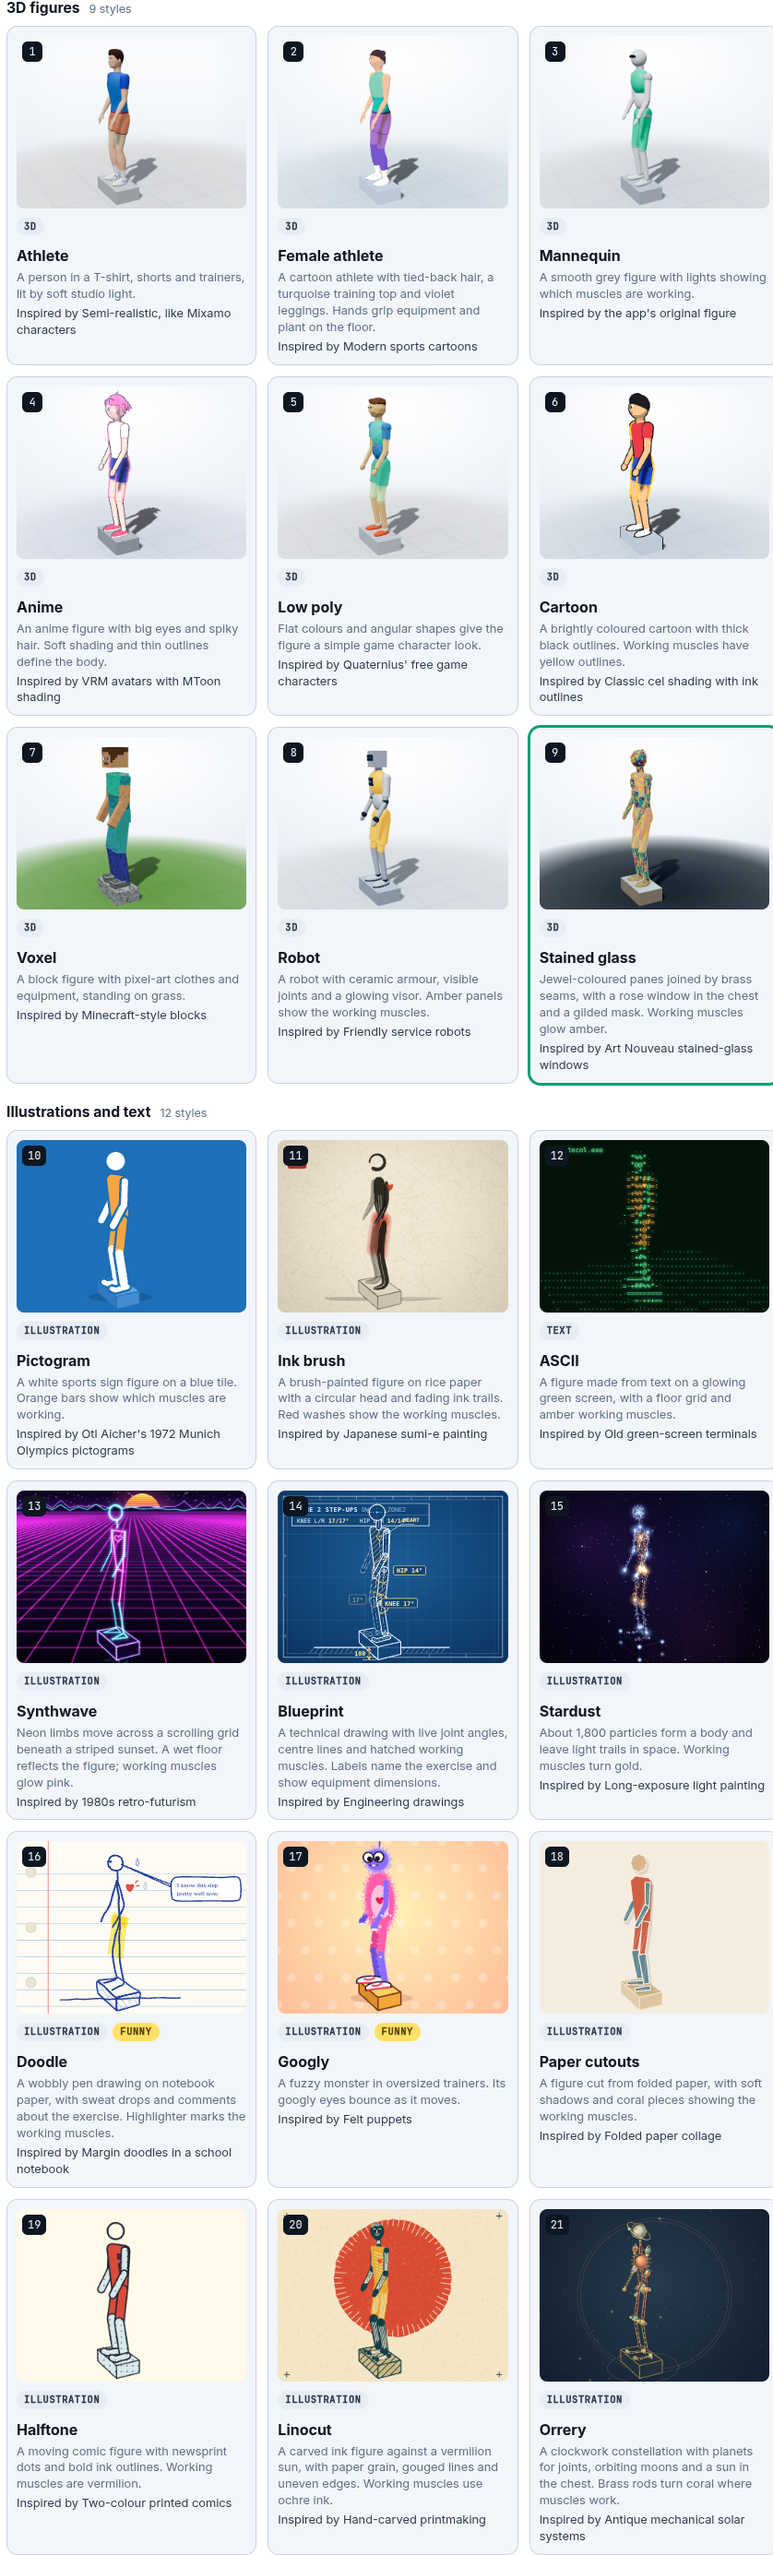
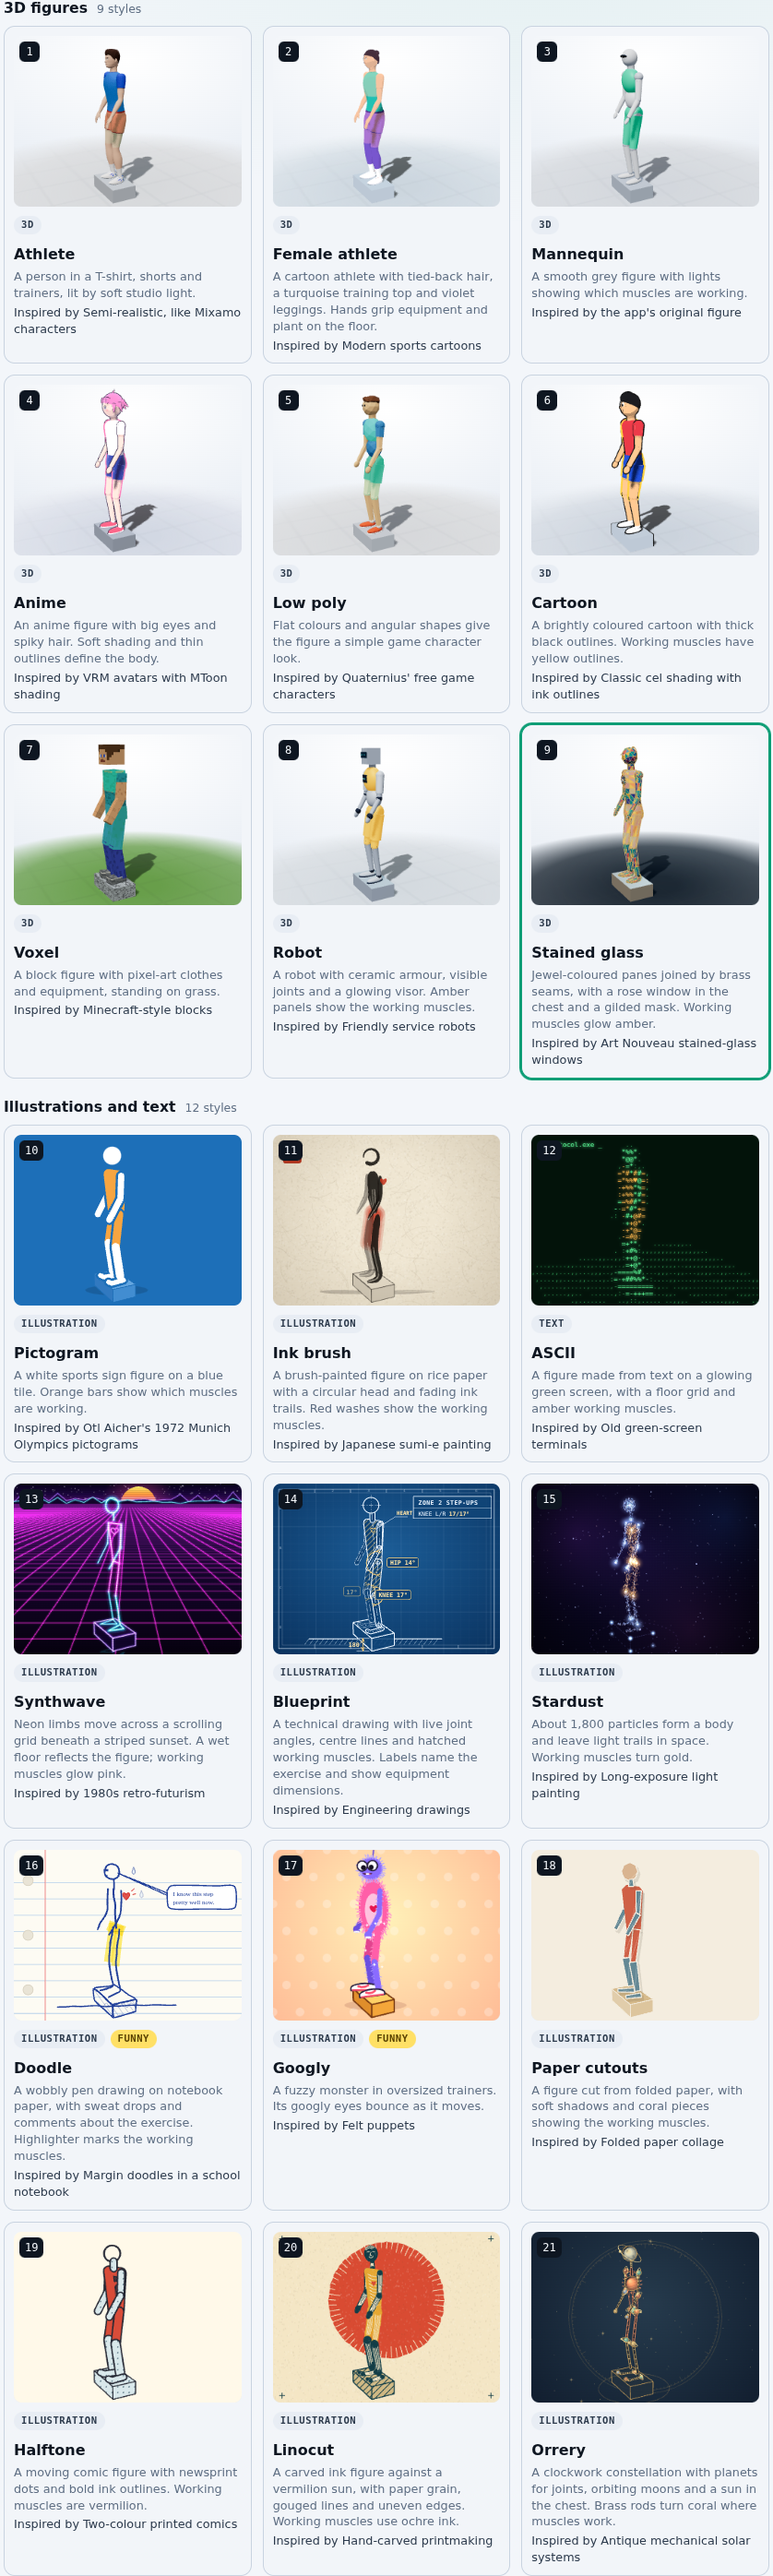
Fix animation overlaps across styles

diff --git a/public/js/anim/styles/blueprint.js b/public/js/anim/styles/blueprint.js
@@ -14,6 +14,22 @@ const INK = "#eaf4ff";
 const n = (v) => v.toFixed(1);
 const esc = (t) => String(t).replace(/&/g, "&amp;").replace(/</g, "&lt;");
 const FONT = `font-family="JetBrains Mono, ui-monospace, Menlo, Consolas, monospace"`;
+const bounds = (pts, pad = 0) => ({
+  left: Math.min(...pts.map((p) => p.x)) - pad,
+  right: Math.max(...pts.map((p) => p.x)) + pad,
+  top: Math.min(...pts.map((p) => p.y)) - pad,
+  bottom: Math.max(...pts.map((p) => p.y)) + pad,
+});
+
+function titlePlacement(w, h, blocked) {
+  const pad = 12, height = 31;
+  const widths = [...new Set([190, 150, 110, 70, 44].map((n) => Math.min(n, w - pad * 2)))].filter((n) => n >= 44);
+  for (const width of widths) for (const y of [18, h - height - 18]) for (const x of [pad, w - pad - width]) {
+    const box = { left: x, right: x + width, top: y, bottom: y + height };
+    if (!blocked.some((b) => box.left < b.right && box.right > b.left && box.top < b.bottom && box.bottom > b.top)) return { x, y, width };
+  }
+  return null;
+}
 
 // The angle at b between the lines to a and c, in degrees (3D).
 function angle(a, b, c) {
@@ -48,6 +64,29 @@ export function createFigure() {
     if (!J) return void (svg.innerHTML = o);
     const u = view.scaleAt(J.pelvis);
     const P = (k) => view.project(J[k]);
+    const head = P("head"), headRadius = u * 0.105;
+    const blocked = [bounds([head], headRadius + 2)];
+    const blockLine = (keys, radius) => blocked.push(bounds(keys.map(P), radius + 2));
+    blocked.push(bounds(["shoulderL", "shoulderR", "hipL", "hipR"].map(P), u * 0.06 + 2));
+    for (const s of ["L", "R"]) {
+      blockLine(["shoulder" + s, "elbow" + s], u * 0.09);
+      blockLine(["elbow" + s, "wrist" + s, "hand" + s], u * 0.1);
+      blockLine(["hip" + s, "knee" + s], u * 0.08);
+      blockLine(["knee" + s, "ankle" + s], u * 0.08);
+      blockLine(["heel" + s, "ball" + s, "toe" + s], u * 0.08);
+    }
+    blockLine(["neckBase", "headJoint"], u * 0.08);
+    const e = view.camera.world, rl = Math.hypot(e[0], e[2]) || 1;
+    blocked.push(bounds([-0.95, 0.95].map((k) => view.project({ x: J.pelvis.x + (e[0] / rl) * k, y: 0, z: J.pelvis.z + (e[2] / rl) * k })), 10));
+    for (const spec of view.props) for (const face of propFaces(spec, view)) {
+      blocked.push(bounds(face.pts, spec.type === "step" || spec.type === "box" ? 24 : 3));
+    }
+    for (const [a, b] of view.attachments.bands) blocked.push(bounds([view.project(a), view.project(b)], 3));
+    if (view.attachments.string) blocked.push(bounds(view.attachments.string.map(view.project), 3));
+    for (const db of view.attachments.dumbbells) {
+      const { a, b, r } = dumbbellHeads(db), radius = u * r + 3;
+      blocked.push(bounds([view.project(a)], radius), bounds([view.project(b)], radius));
+    }
     const near = P("hipL").z + P("shoulderL").z < P("hipR").z + P("shoulderR").z ? "L" : "R";
     const far = near === "L" ? "R" : "L";
 
@@ -61,7 +100,9 @@ export function createFigure() {
       ["ELBOW L/R", `${Math.round(elbow("L"))}/${Math.round(elbow("R"))}°`],
       ["PELVIS", `${Math.round(J.pelvis.y * 1000)} mm`],
     ];
-    o += titleStrip(readouts, Math.max(150, w - 128), title, exId);
+    const strip = titlePlacement(w, h, blocked);
+    // shortcut: hide the label if no corner is clear; move it outside the stage if every frame must show it.
+    if (strip) o += titleStrip(readouts, strip.width, title, exId, strip.x, strip.y);
     o += ground(view, u);
     for (const spec of view.props) o += prop(spec, view, u);
 
@@ -97,7 +138,7 @@ export function createFigure() {
     const spine = ["neckBase", "thoracic", "lumbar", "pelvis"].map(P);
     o += `<path d="M${spine.map((p) => `${n(p.x)} ${n(p.y)}`).join("L")}" fill="none" stroke="${INK}" stroke-width="0.7" stroke-dasharray="10 3 2 3"/>`;
     o += part(["neckBase", "headJoint"], 0.08, "neck", false);
-    const hd = P("head"), hr = u * 0.105;
+    const hd = head, hr = headRadius;
     o += `<circle cx="${n(hd.x)}" cy="${n(hd.y)}" r="${n(hr)}" fill="${PAPER}" stroke="${INK}" stroke-width="1.3"/>`;
     o += `<path d="M${n(hd.x - hr * 1.3)} ${n(hd.y)}H${n(hd.x + hr * 1.3)}M${n(hd.x)} ${n(hd.y - hr * 1.3)}V${n(hd.y + hr * 1.3)}" stroke="${INK}" stroke-width="0.6" stroke-dasharray="6 2 1.5 2"/>`;
     o += side(near, false);
@@ -151,26 +192,28 @@ export function createFigure() {
     return s;
   }
 
-  function titleStrip(readouts, maxW, name, dwg) {
-    const x = 20, y = 18, cw = 4.9; // cw: width of one 8 px mono character
+  function titleStrip(readouts, boxW, name, dwg, x, y) {
+    const cw = 4.9; // cw: width of one 8 px mono character
     let line = "", width = 0;
     for (const [k, v] of readouts) {
       const item = `${k} <tspan font-weight="700" fill="#ffe3a6">${v}</tspan>`;
       const len = (k.length + v.length + 4) * cw;
-      if (width + len > maxW - 14) break;
+      if (width + len > boxW - 14) break;
       line += (line ? '<tspan fill-opacity="0.4"> · </tspan>' : "") + item;
       width += len;
     }
     // The name fits the strip: the drawing number goes first, then the name is cut short.
     let head = name.toUpperCase(), num = `DWG HP-${dwg.toUpperCase()}`;
-    const fits = (t) => t.length * 5.6 + 14 <= maxW;
+    const fits = (t) => t.length * 5.6 + 14 <= boxW;
     if (!fits(head + "  " + num)) num = "";
-    if (!fits(head)) head = head.slice(0, Math.max(4, Math.floor((maxW - 14) / 5.6) - 1)) + "…";
-    const w = Math.min(maxW, Math.max(width + 14, (head.length + (num ? num.length + 2 : 0)) * 5.6 + 14, 190));
-    return `<g ${FONT} fill="${INK}"><rect x="${x}" y="${y}" width="${n(w)}" height="31" fill="${PAPER}" fill-opacity="0.85" stroke="${INK}" stroke-width="0.9"/>
-      <text x="${x + 7}" y="${y + 12}" font-size="8.5" font-weight="700" letter-spacing="0.5">${esc(head)} <tspan font-weight="400" fill-opacity="0.6" letter-spacing="0">${esc(num)}</tspan></text>
-      <path d="M${x} ${y + 16.5}h${n(w)}" stroke="${INK}" stroke-width="0.5" stroke-opacity="0.7"/>
-      <text x="${x + 7}" y="${y + 27}" font-size="8">${line}</text></g>`;
+    if (!fits(head)) {
+      const chars = Math.floor((boxW - 14) / 5.6);
+      head = chars > 1 ? head.slice(0, chars - 1) + "…" : head.slice(0, chars);
+    }
+    return `<g ${FONT} fill="${INK}"><rect x="${n(x)}" y="${n(y)}" width="${n(boxW)}" height="31" fill="${PAPER}" fill-opacity="0.85" stroke="${INK}" stroke-width="0.9"/>
+      <text x="${n(x + 7)}" y="${n(y + 12)}" font-size="8.5" font-weight="700" letter-spacing="0.5">${esc(head)}${num ? ` <tspan font-weight="400" fill-opacity="0.6" letter-spacing="0">${esc(num)}</tspan>` : ""}</text>
+      <path d="M${n(x)} ${n(y + 16.5)}h${n(boxW)}" stroke="${INK}" stroke-width="0.5" stroke-opacity="0.7"/>
+      <text x="${n(x + 7)}" y="${n(y + 27)}" font-size="8">${line}</text></g>`;
   }
 
   // An angle dimension at b, from the line to a round to the line to c, with its label

diff --git a/tests/creative-styles.test.js b/tests/creative-styles.test.js
@@ -6,6 +6,8 @@ import { animationIds, getAnimation } from "../public/js/anim/clips/index.js";
 import { computeJoints, makePose } from "../public/js/anim/rig.js";
 import { prepareClip, sampleClip, Stage } from "../public/js/anim/stage.js";
 import { loadFigure } from "../public/js/anim/styles/index.js";
+import { createFigure as createBlueprintFigure } from "../public/js/anim/styles/blueprint.js";
+import { dumbbellHeads, propFaces } from "../public/js/anim/styles/flat.js";
 
 test("three new styles appear in the correct picker groups without changing the default", () => {
   assert.equal(DEFAULT_ANIM_STYLE, "athlete");
@@ -115,5 +117,69 @@ test("the print and orrery draw all movements, cameras and equipment with repeat
     }
   } finally {
     globalThis.document = previousDocument; globalThis.window = previousWindow;
+  }
+});
+
+test("Blueprint's title strip stays clear of the figure, ground and equipment across every clip", () => {
+  const previousDocument = globalThis.document;
+  globalThis.document = { createElementNS: () => ({ style: {}, setAttribute() {}, remove() {}, innerHTML: "" }) };
+  try {
+    const figure = createBlueprintFigure(), camera = new PerspectiveCamera(38, 1, 0.1, 100);
+    let visibleStrips = 0;
+    const overlaps = (rect, points, pad = 0) => {
+      const left = Math.min(...points.map((p) => p.x)) - pad, right = Math.max(...points.map((p) => p.x)) + pad;
+      const top = Math.min(...points.map((p) => p.y)) - pad, bottom = Math.max(...points.map((p) => p.y)) + pad;
+      return rect.left < right && rect.right > left && rect.top < bottom && rect.bottom > top;
+    };
+    for (const width of [220, 390]) {
+      let currentJ, currentClip;
+      const stage = { container: { clientWidth: width, clientHeight: width }, camera, opts: { interactive: false },
+        attachments: () => ({
+          dumbbells: currentClip?.hold ? [{ c: currentJ.handL, axis: new Vector3(1, 0, 0), size: 1 }] : [],
+          bands: currentClip?.props.some((p) => p.anchorH != null) ? [[currentJ.handL, new Vector3(0, 1.5, 0)]] : [],
+          string: null,
+        }) };
+      for (const id of animationIds()) for (const raw of getAnimation(id).clips) {
+        const clip = prepareClip(raw); stage.clip = clip; figure.setHighlight(clip.highlight);
+        currentClip = clip;
+        for (const phase of [0, 0.31, 0.56, 0.92]) {
+          const sample = sampleClip(clip, clip.duration * phase); stage.mirrored = sample.mirrored;
+          const J = currentJ = computeJoints(sample.pose);
+          for (const pos of [[0, 1.2, 4], [4, 1.2, 0], [2.8, 2, 3]]) {
+            camera.position.set(...pos); camera.lookAt(0, 0.9, 0); camera.updateProjectionMatrix(); camera.updateMatrixWorld();
+            const view = Stage.prototype.flatView.call(stage);
+            figure.update(J, { title: id, id }); figure.draw(view);
+            const panel = figure.dom.innerHTML.match(/<rect x="([\d.-]+)" y="([\d.-]+)" width="([\d.-]+)" height="31"/);
+            if (!panel) continue;
+            visibleStrips++;
+            const rect = { left: Number(panel[1]), top: Number(panel[2]), right: Number(panel[1]) + Number(panel[3]), bottom: Number(panel[2]) + 31 };
+            const u = view.scaleAt(J.pelvis), P = (key) => view.project(J[key]);
+            assert.ok(!overlaps(rect, [P("head")], u * 0.105 + 2), `${id}: title strip overlaps the head`);
+            assert.ok(!overlaps(rect, ["shoulderL", "shoulderR", "hipL", "hipR"].map(P), u * 0.06 + 2), `${id}: title strip overlaps the torso`);
+            const eye = view.camera.world, horizontal = Math.hypot(eye[0], eye[2]) || 1;
+            const ground = [-0.95, 0.95].map((k) => view.project({ x: J.pelvis.x + (eye[0] / horizontal) * k, y: 0, z: J.pelvis.z + (eye[2] / horizontal) * k }));
+            assert.ok(!overlaps(rect, ground, 10), `${id}: title strip overlaps the ground line`);
+            for (const s of ["L", "R"]) for (const keys of [
+              ["shoulder" + s, "elbow" + s], ["elbow" + s, "wrist" + s, "hand" + s],
+              ["hip" + s, "knee" + s], ["knee" + s, "ankle" + s], ["heel" + s, "ball" + s, "toe" + s],
+            ]) assert.ok(!overlaps(rect, keys.map(P), u * 0.08 + 2), `${id} at ${phase} with ${width}px view from ${pos}: title strip overlaps ${keys.at(-1)}; ${JSON.stringify(rect)}`);
+            for (const spec of view.props) for (const face of propFaces(spec, view)) {
+              assert.ok(!overlaps(rect, face.pts, 3), `${id}: title strip overlaps ${spec.type}`);
+            }
+            for (const [a, b] of view.attachments.bands) {
+              assert.ok(!overlaps(rect, [view.project(a), view.project(b)], 3), `${id}: title strip overlaps a band`);
+            }
+            for (const db of view.attachments.dumbbells) {
+              const { a, b, r } = dumbbellHeads(db), radius = u * r + 3;
+              assert.ok(!overlaps(rect, [view.project(a)], radius) && !overlaps(rect, [view.project(b)], radius), `${id}: title strip overlaps a dumbbell`);
+            }
+          }
+        }
+      }
+    }
+    assert.ok(visibleStrips > 0, "Blueprint title strip never finds a clear area");
+    figure.dispose();
+  } finally {
+    globalThis.document = previousDocument;
   }
 });

diff --git a/public/js/anim/styles/doodle.js b/public/js/anim/styles/doodle.js
@@ -147,12 +147,12 @@ export function createFigure() {
     if (lit.has("chest")) o += marker([P("thoracic"), P("neckBase")], u * 0.13);
     if (lit.has("neck")) o += marker([P("neckBase"), P("headJoint")], u * 0.07);
 
-    // The stick figure: arms from one shoulder point, legs from the hips, little feet.
+    // The stick figure: arms from the shoulders, legs from the hips, little feet.
     const neck = view.project(J.neckBase.clone().lerp(J.thoracic, 0.15));
     const near = P("hipL").z < P("hipR").z ? "L" : "R";
     for (const s of near === "L" ? ["R", "L"] : ["L", "R"]) {
-      o += pen([P("pelvis"), P("knee" + s), P("ankle" + s), P("toe" + s)], seed * 3 + (s === "L" ? 1 : 2));
-      o += pen([neck, P("elbow" + s), P("hand" + s)], seed * 3 + (s === "L" ? 11 : 12));
+      o += pen([P("hip" + s), P("knee" + s), P("ankle" + s), P("toe" + s)], seed * 3 + (s === "L" ? 1 : 2));
+      o += pen([P("shoulder" + s), P("elbow" + s), P("hand" + s)], seed * 3 + (s === "L" ? 11 : 12));
     }
     o += pen([neck, P("pelvis")], seed * 3 + 21, 2.6);
     o += pen([P("headJoint"), neck], seed * 3 + 22, 2.3);

diff --git a/public/js/anim/styles/paper.js b/public/js/anim/styles/paper.js
@@ -24,7 +24,7 @@ export function createFigure() {
       out += `<path d="${poly(f.pts)}" fill="${color}" opacity="${f.ghost ? 0.25 : f.light}" stroke="${PAPER}" stroke-width="1"/>`;
     }
     const pieces = bodyPieces(J, view);
-    if (lit.has("neck")) pieces.push({ kind: "arm", region: "neck", pts: [view.project(J.neckBase), view.project(J.headJoint)] });
+    pieces.push({ kind: "arm", region: "neck", pts: [view.project(J.neckBase), view.project(J.headJoint)] });
     for (const p of pieces) {
       const color = isLit(lit, p.kind === "torso" ? "torso" : p.region) ? ACCENT : p.kind === "head" ? "#d9b490" : "#648894";
       let pts = p.pts;

diff --git a/public/js/anim/styles/halftone.js b/public/js/anim/styles/halftone.js
@@ -37,7 +37,7 @@ export function createFigure() {
     }
     ctx.globalAlpha = 1;
     const pieces = bodyPieces(J, view);
-    if (lit.has("neck")) pieces.push({ kind: "arm", region: "neck", pts: [view.project(J.neckBase), view.project(J.headJoint)] });
+    pieces.push({ kind: "arm", region: "neck", pts: [view.project(J.neckBase), view.project(J.headJoint)] });
     for (const p of pieces) {
       const fill = isLit(lit, p.kind === "torso" ? "torso" : p.region) ? ACCENT : pattern;
       if (p.kind === "head") {

diff --git a/public/js/anim/clips/stability.js b/public/js/anim/clips/stability.js
@@ -41,8 +41,10 @@ function sidebend(d) {
     handsIn: "world",
     handR: hang,
     elbowR: [-0.3, 0, -1],
-    handL: [p.root[0] + 0.165, p.root[1] + 0.1, 0.02], // on the waist (the pelvis doesn't rotate)
+    handL: [p.root[0] + 0.165, p.root[1] + 0.1, 0.02],
     elbowL: [1, 0, -0.3],
+    palmL: [-1, 0, 0],
+    fingersL: [0, -1, 0],
   };
 }
 

diff --git a/CHANGELOG.md b/CHANGELOG.md
@@ -1,5 +1,10 @@
 # Changelog
 
+## [1.26.4] - 2026-10-19
+
+### Fixed
+- Side-bend hands stay on the waist, limbs and necks stay connected in three styles, and Blueprint labels clear the figure and equipment.
+
 ## [1.26.3] - 2026-10-19
 
 ### Fixed
